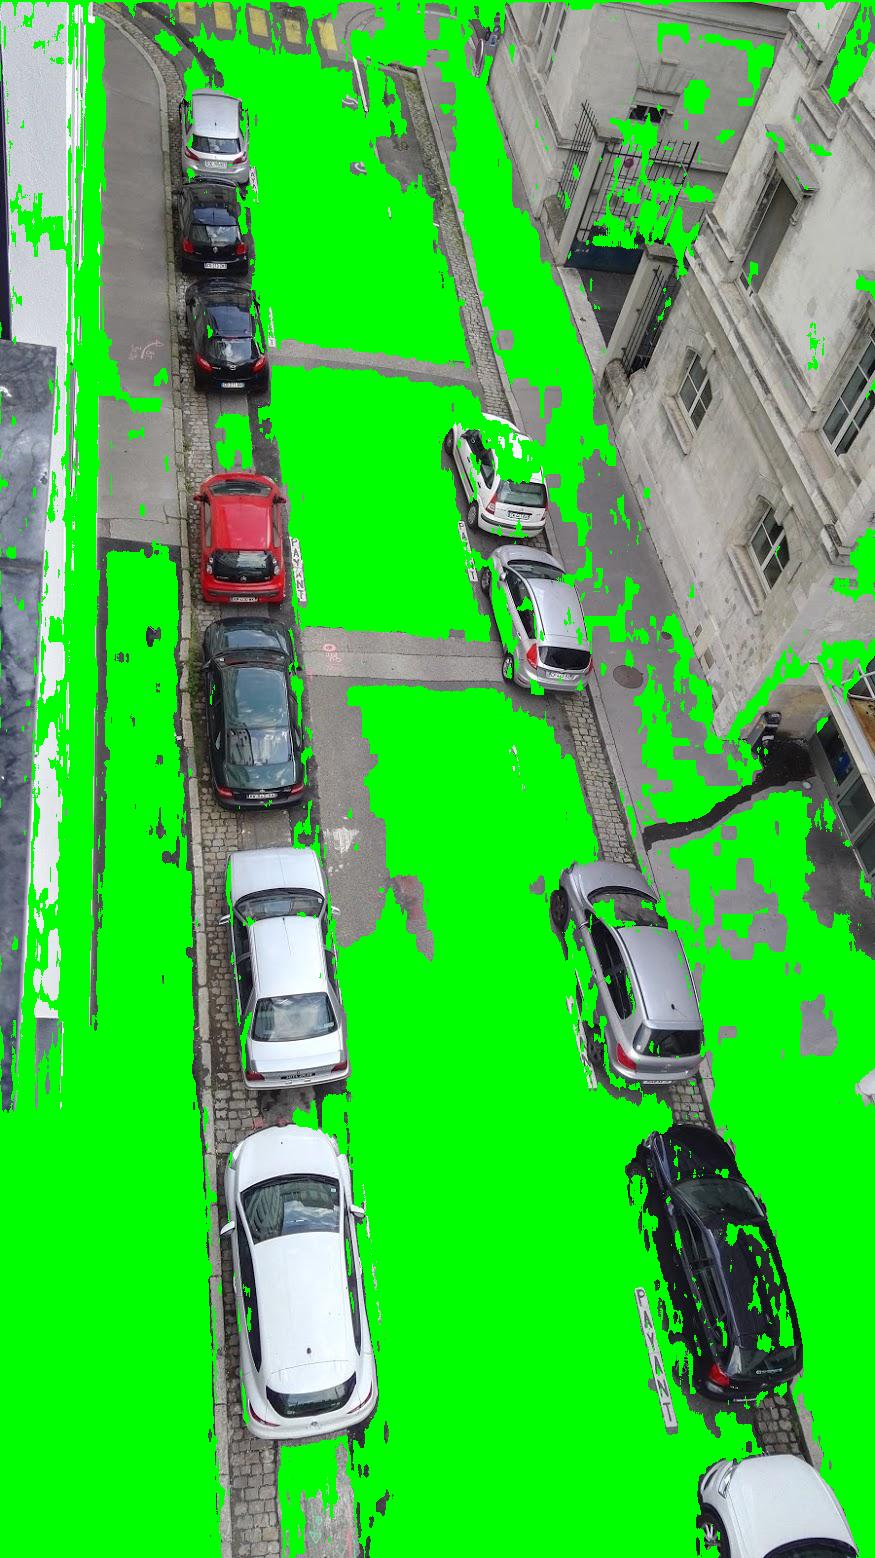
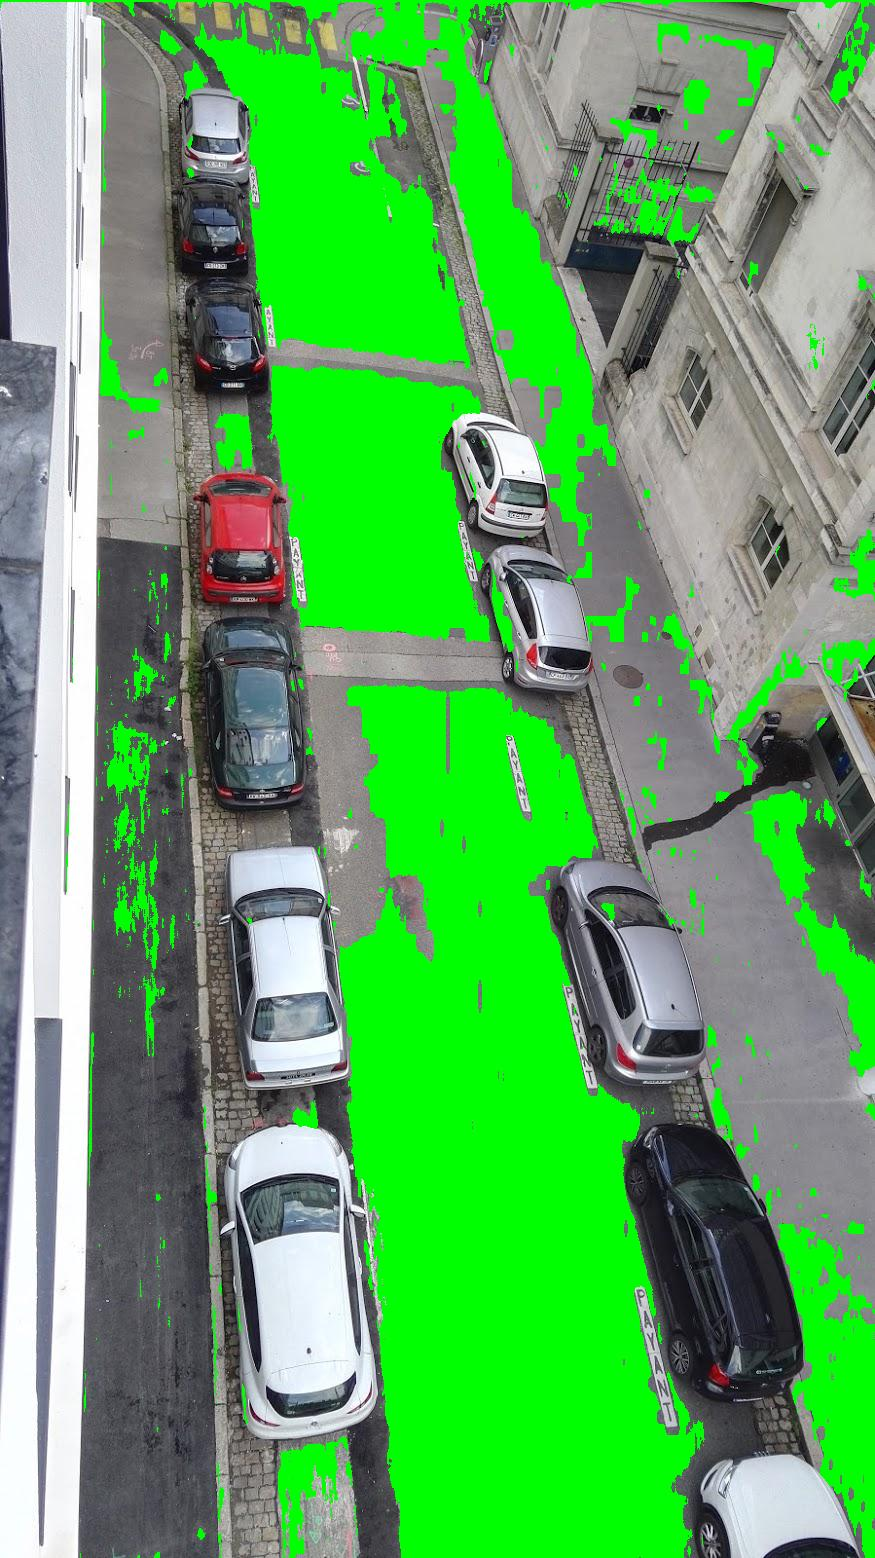
ajout trace route

diff --git a/Python_masques/trace_route.py b/Python_masques/trace_route.py
@@ -1,0 +1,58 @@
+from PIL.Image import *
+import ImageFilter
+from scipy import signal
+from scipy import misc
+from scipy import ndimage
+import numpy as np
+import ImageDraw
+
+
+#axe horizontal
+file = 'image_filtre_median.png'
+camera = open(file)
+for x in range(camera.size[0]):
+	for y in range(camera.size[1]):
+		if Image.getpixel(camera, (x,y)) == (0,255,0):
+			Image.putpixel(camera, (x, y), (0,0,0))
+		elif Image.getpixel(camera, (x,y)) == (0,0,0):
+			Image.putpixel(camera, (x, y), (0,255,0))
+camera.save("image_filtre_median_inverse.png")
+longueur = camera.size[1]/6
+image_horizontale = new("RGB", (camera.size[0],longueur), "blue")
+draw = ImageDraw.Draw(image_horizontale)
+del draw
+for x in range(image_horizontale.size[0]):
+	for y in range(image_horizontale.size[1]):
+		Image.putpixel(image_horizontale, (x, y), Image.getpixel(camera, (x ,y)))
+image_horizontale.save('image_horizontale_haut.jpg')
+r,g,b = image_horizontale.split() 
+array_image = np.zeros(image_horizontale.size)
+for x in range(image_horizontale.size[0]):
+	for y in range(image_horizontale.size[1]):
+		array_image[x,y] = Image.getpixel(g, (x,y))
+print array_image
+coordonnee_centre_de_masse_haut = ndimage.measurements.center_of_mass(array_image)
+print (int(coordonnee_centre_de_masse_haut[0]),int (coordonnee_centre_de_masse_haut[1]))
+Image.putpixel(camera, (int(coordonnee_centre_de_masse_haut[0]),int (coordonnee_centre_de_masse_haut[1])), (255,0,0))
+
+
+image_horizontale = new("RGB", (camera.size[0],longueur), "blue")
+draw = ImageDraw.Draw(image_horizontale)
+del draw
+for x in range(image_horizontale.size[0]):
+	for y in range(image_horizontale.size[1]):
+		Image.putpixel(image_horizontale, (x, y), Image.getpixel(camera, (x ,y+5*longueur)))
+image_horizontale.save('image_horizontale_bas.jpg')
+r,g,b = image_horizontale.split() 
+array_image = np.zeros(image_horizontale.size)
+for x in range(image_horizontale.size[0]):
+	for y in range(image_horizontale.size[1]):
+		array_image[x,y] = Image.getpixel(g, (x,y))
+coordonnee_centre_de_masse_bas = ndimage.measurements.center_of_mass(array_image)
+Image.putpixel(camera, (int(coordonnee_centre_de_masse_bas[0]),int(coordonnee_centre_de_masse_bas[1] + longueur*5)), (255,0,0))
+
+
+draw = ImageDraw.Draw(camera)
+draw.line( (int(coordonnee_centre_de_masse_haut[0]),int (coordonnee_centre_de_masse_haut[1]))+ (int(coordonnee_centre_de_masse_bas[0]),int(coordonnee_centre_de_masse_bas[1] + longueur*5)), fill="red")
+del draw
+camera.save("centredemasse.png")

diff --git a/Python_masques/determine_calques.py b/Python_masques/determine_calques.py
@@ -27,7 +27,7 @@ camera = open(file)
 
 
 # ouverture échantillon de sol
-file  = 'macadam.png'
+file  = 'macadam2.png'
 macadam = open(file)
 
 # création de la base de données pixel macadam
